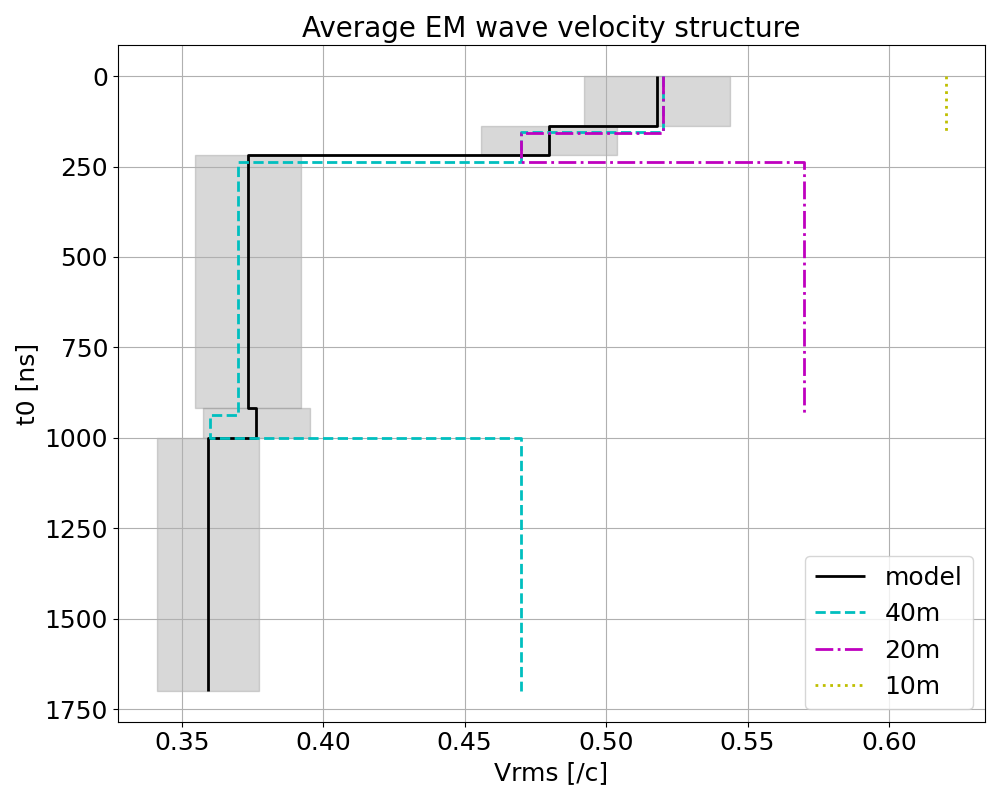
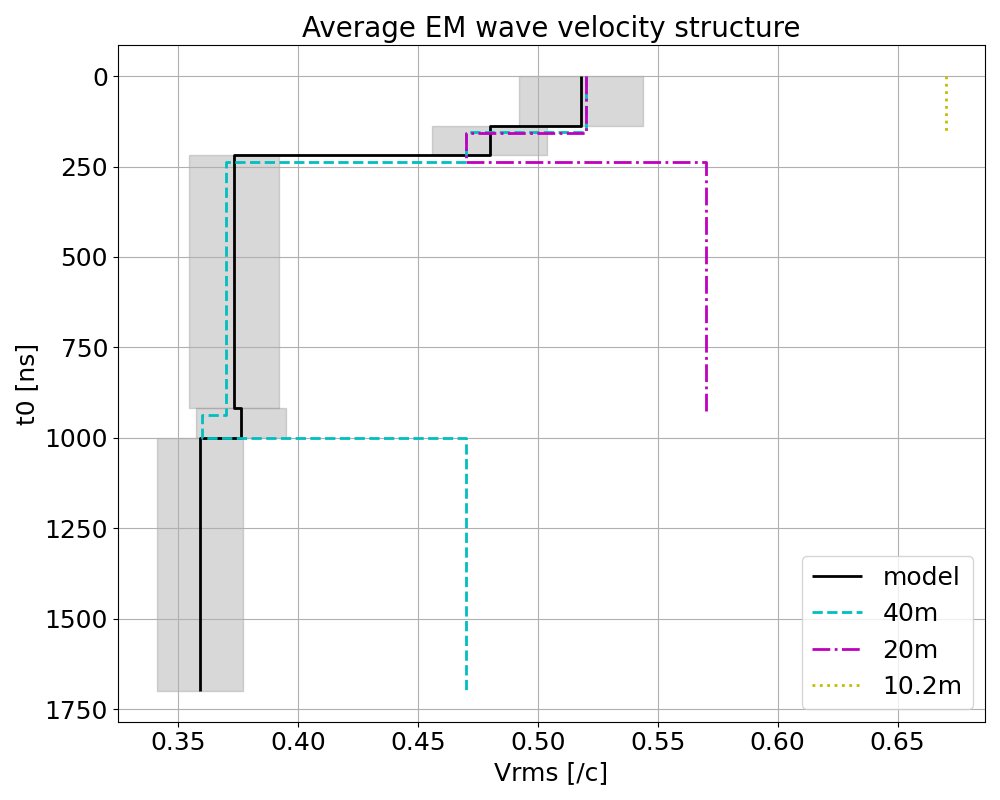
estimate Vrms and epsilon_r

diff --git a/tools/plot_dielectric_structure.py b/tools/plot_dielectric_structure.py
@@ -97,12 +97,12 @@ def run_estimation(json_path):
 depth_model, permittivity_model, collections_model = run_geometry('kanda/domain_50x100/no_loss/geometry/geometry.json')
 collections_40m = run_estimation('kanda/domain_50x100/no_loss/multi_CMP_int1_40m/multi_int1.json')
 collections_20m = run_estimation('kanda/domain_50x100/no_loss/multi_CMP_int05_20m/multi_CMP_int05_20m.json')
-collections_10m = run_estimation('kanda/domain_50x100/no_loss/multi_CMP_int1_10m/muti_CMP_int1_10m.json')
+collections_10m = run_estimation('kanda/domain_50x100/no_loss/multi_CMP_int026_10.2m/multi_CMP_int026_10.2.json')
 #collections_40m_int2 = run_estimation('kanda/domain_50x100/no_loss/multi_CMP_int2_40m/muti_CMP_int2_40m.json')
 arrays = [collections_model, collections_40m, collections_20m, collections_10m]
 clors = ['k', 'c', 'm', 'y', 'r']
 line_styles = ['-', '--', '-.', ':']
-labels = ['Model', '40m', '20m', '10m']
+labels = ['Model', '40m', '20m', '10.2m']
 
 #* plot
 fig = plt.figure(figsize=(10, 8), tight_layout=True)

diff --git a/tools/plot_velocity_structure.py b/tools/plot_velocity_structure.py
@@ -49,7 +49,7 @@ def run(json_path):
 
 max_40m = run('kanda/domain_50x100/no_loss/multi_CMP_int1_40m/multi_int1.json')
 max_20m = run('kanda/domain_50x100/no_loss/multi_CMP_int05_20m/multi_CMP_int05_20m.json')
-max_10m = run('kanda/domain_50x100/no_loss/multi_CMP_int1_10m/muti_CMP_int1_10m.json')
+max_10m = run('kanda/domain_50x100/no_loss/multi_CMP_int026_10.2m/multi_CMP_int026_10.2.json')
 
 
 #* get theoretical value of Vrms and t0 from geometry
@@ -82,7 +82,7 @@ print('Vrms: ', Vrms_plot_geometry)
 arrays = [geometry, max_40m, max_20m, max_10m]
 clors = ['k', 'c', 'm', 'y']
 line_styles = ['-', '--', '-.', ':']
-labels = ['model', '40m', '20m', '10m']
+labels = ['model', '40m', '20m', '10.2m']
 
 
 #* plot

diff --git a/tools/estimate_internal_velocity.py b/tools/estimate_internal_velocity.py
@@ -29,7 +29,7 @@ Vrms = np.array(params['Vrms_estimation']['Vrms_results']) * c # [m/s], Vrms in 
 t0 = np.array(params['Vrms_estimation']['t0_results']) * 10**(-9)# [s], t0 in each layers
 print('Vrms: ', Vrms)
 print('t0: ', t0)
-epsilon_r_model = np.array(geometry_params['layering_structure_info']['internal_permittivity'][1:]) # epsilon_r in each layers, contains air layer
+epsilon_r_model = np.array(geometry_params['layering_structure_info']['internal_permittivity'][1:1+len(Vrms)]) # epsilon_r in each layers, contains air layer
 
 
 #* calculate t0 in vacuum
